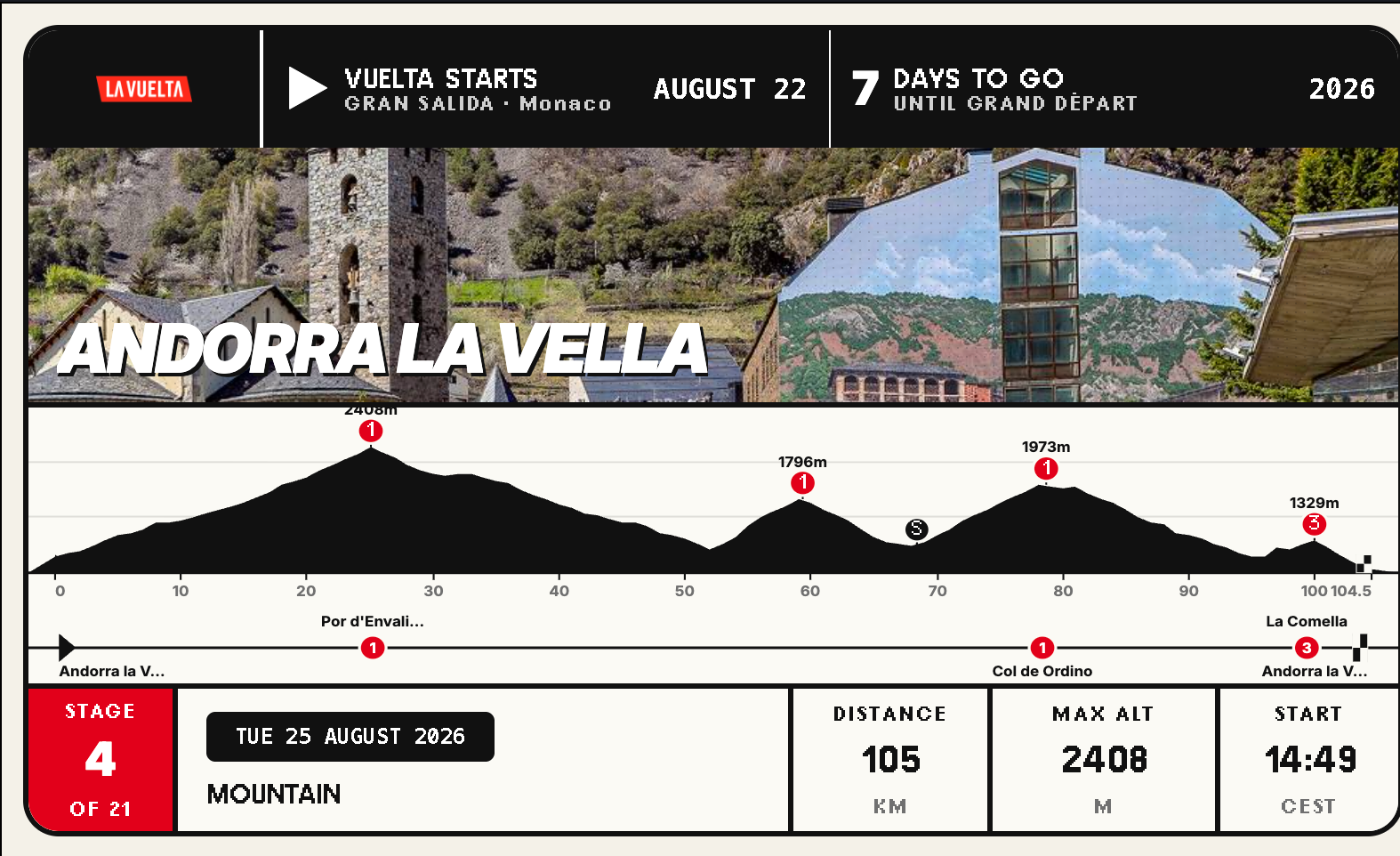
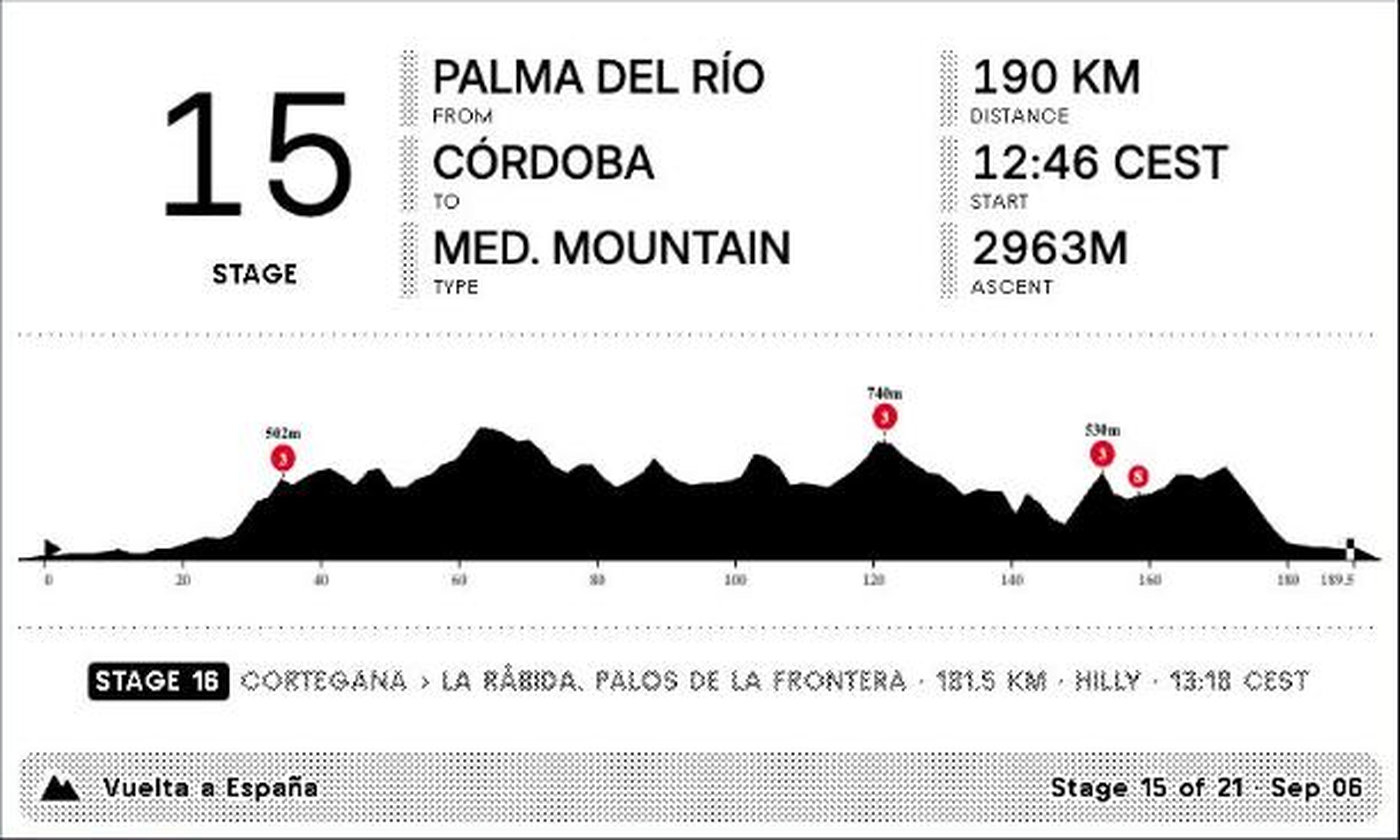
Update the README preview screenshot to the redesigned layout
Replaces the old poster-style Stage 4 screenshot with a fresh capture
of the current minimalist design on Stage 15 (Palma del Río →
Córdoba), and updates the caption to match.

diff --git a/README.md b/README.md
@@ -6,7 +6,7 @@ Forked from the "Tour de France Stages" plugin, pointed at La Vuelta instead of 
 
 ![Full layout preview](docs/preview-full.png)
 
-*Live preview via `trmnlp serve`, showing Stage 4 (Andorra la Vella mountain loop, 2026 route) pulled from `racecenter.lavuelta.es`.*
+*Live preview via `trmnlp serve`, showing Stage 15 (Palma del Río → Córdoba, 2026 route) pulled from `racecenter.lavuelta.es`.*
 
 ## How it works
 
